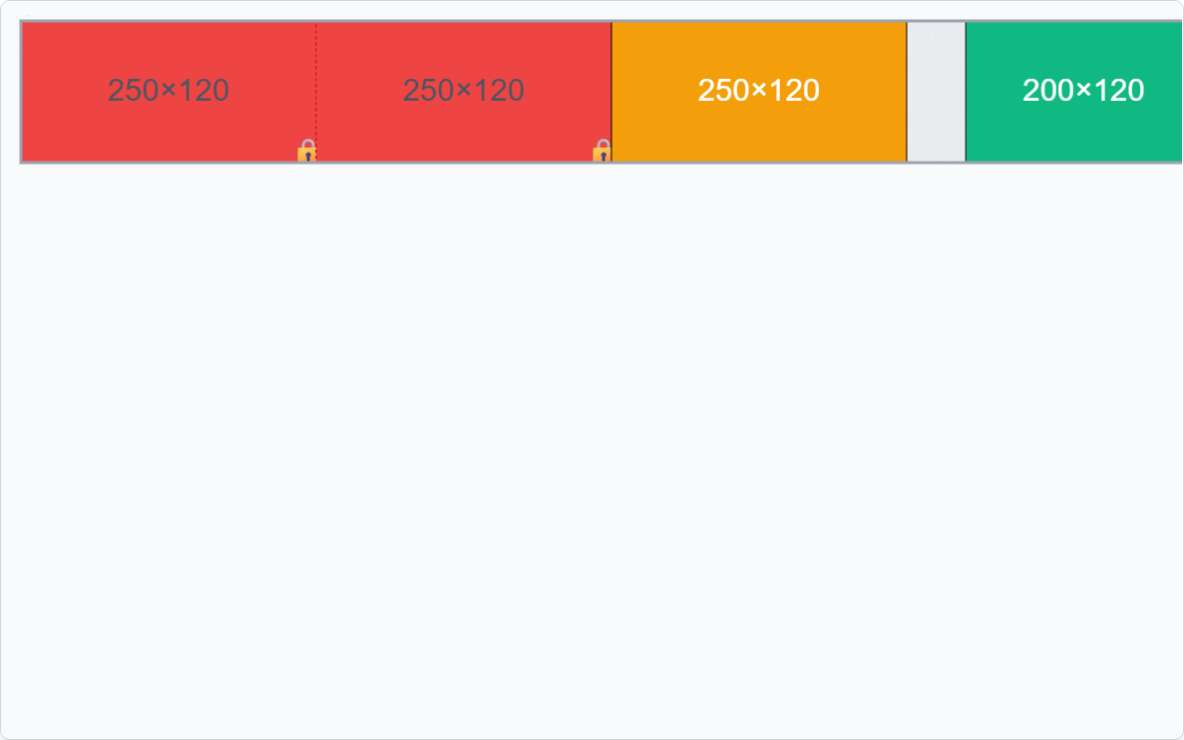
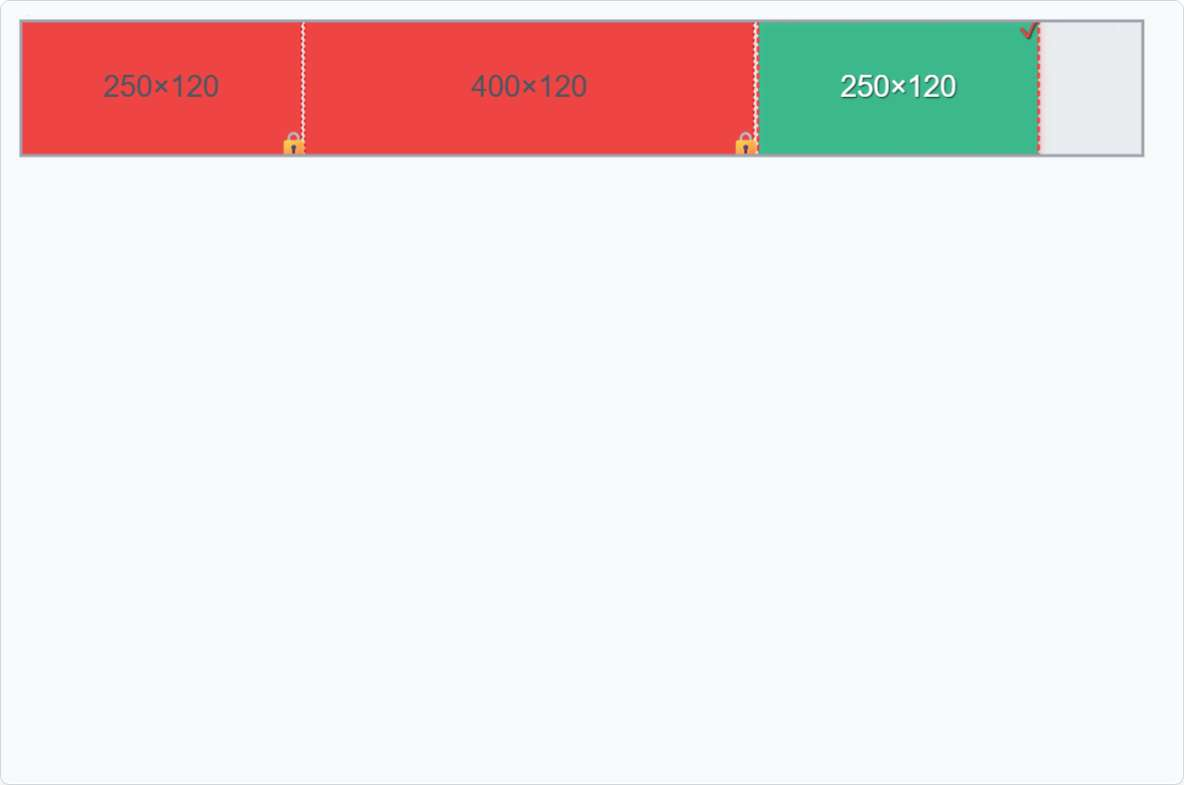
Commit Sisa

Changed region(s): [[0.0, 0.0, 1.0, 0.2486], [0.0625, 0.0932, 0.1875, 0.1554]]

diff --git a/src/pages/work-order/add.jsx b/src/pages/work-order/add.jsx
@@ -609,8 +609,8 @@ export default function AddWorkOrderPage() {
           bentuk_barang_id: item.bentuk_barang_id,
           grade_barang_id: item.grade_barang_id,
           tebal: parseFloat(item.tebal) || 0,
-          sisa_panjang: parseFloat(item.panjang) || 0,
-          sisa_lebar: parseFloat(item.lebar) || 0
+          panjang: parseFloat(item.panjang) || 0,
+          lebar: parseFloat(item.lebar) || 0
         })
       });
       

diff --git a/src/pages/work-order/select-platshaftdasar.jsx b/src/pages/work-order/select-platshaftdasar.jsx
@@ -249,8 +249,8 @@ export default function SelectPlatShaftDasar({
           bentuk_barang_id: bentukBarangId,
           grade_barang_id: gradeBarangId,
           tebal: tebal,
-          sisa_panjang: parseFloat(workOrderItem?.panjang || 0),
-          sisa_lebar: parseFloat(workOrderItem?.lebar || 0)
+          panjang: parseFloat(workOrderItem?.panjang || 0),
+          lebar: parseFloat(workOrderItem?.lebar || 0)
         })
       });
 

diff --git a/API_ENDPOINTS.md b/API_ENDPOINTS.md
@@ -950,38 +950,42 @@
 
   ### Utility Endpoints
 
-  #### 13. Get Saran Plat Dasar
-  - **POST** `/api/work-order-planning/get-saran-plat-dasar`
-  - **Description**: Mendapatkan saran plat dasar berdasarkan kriteria (jenis, bentuk, grade barang, tebal, dan sisa_luas). Hanya menampilkan item yang jenis_potongan = 'potongan' dan tidak sedang diedit (is_edit = false atau null)
-  - **Request Body**:
-  ```json
-  {
-    "jenis_barang_id": 1,
-    "bentuk_barang_id": 1,
-    "grade_barang_id": 1,
-    "tebal": 10,
-    "sisa_luas": 100
-  }
-  ```
-  - **Response**: List item barang yang memenuhi kriteria, dengan jenis, bentuk, grade barang yang sama, tebal yang sama, sisa_luas lebih besar dari parameter, jenis_potongan = 'potongan', dan tidak sedang diedit (is_edit = false atau null), diurutkan berdasarkan sisa_luas (ascending).
-  - **Response Format**:
-  ```json
-  {
-    "success": true,
-    "data": [
-      {
-        "id": 1,
-        "nama": "Aluminium Shaft Grade A",
-        "ukuran": "80.5 x 45.2 x 5.0",
-        "sisa_luas": 3640.60
-      }
-    ]
-  }
-  ```
+#### 13. Get Saran Plat Dasar
+ - **POST** `/api/work-order-planning/get-saran-plat-dasar`
+ - **Description**: Mendapatkan saran plat dasar berdasarkan kriteria (jenis, bentuk, grade barang, tebal, panjang, dan lebar). Hanya menampilkan item yang `jenis_potongan = 'potongan'` dan tidak sedang diedit (`is_edit = false` atau `null`).
+ - **Request Body**:
+ ```json
+ {
+   "jenis_barang_id": 1,
+   "bentuk_barang_id": 1,
+   "grade_barang_id": 1,
+   "tebal": 10,
+   "panjang": 100,
+   "lebar": 50
+ }
+ ```
+ - **Behavior**:
+   - Tahap 1 (DB): Sistem menghitung `areaNeeded = panjang × lebar` lalu memfilter kandidat dengan `sisa_luas >= areaNeeded`.
+   - Tahap 2 (Canvas): Untuk setiap kandidat, sistem membaca `canvas_file` JSON dan mensimulasikan ketersediaan ruang kontigu untuk `panjang × lebar` (menggunakan irisan strip vertikal dan overlap interval kosong). Hanya item yang benar-benar bisa memuat ukuran tersebut yang dikembalikan.
+ - **Response**: List item barang yang memenuhi kriteria, diurutkan berdasarkan `sisa_luas` (ascending).
+ - **Response Format**:
+```json
+{
+  "success": true,
+  "data": [
+    {
+      "id": 1,
+      "nama": "Aluminium Shaft Grade A",
+      "ukuran": "100 x 50 x 10",
+      "sisa_luas": 3640.60
+    }
+  ]
+}
+```
 
-  #### 13.1. Get Saran Plat Utuh
-  - **POST** `/api/work-order-planning/get-saran-plat-utuh`
-  - **Description**: Mendapatkan saran plat dasar untuk jenis potongan 'utuh' berdasarkan kriteria (jenis, bentuk, grade barang, tebal, panjang, dan lebar). Hanya menampilkan item yang jenis_potongan = 'utuh' dan tidak sedang diedit (is_edit = false atau null)
+#### 13.1. Get Saran Plat Utuh
+ - **POST** `/api/work-order-planning/get-saran-plat-utuh`
+ - **Description**: Mendapatkan saran plat dasar untuk jenis potongan 'utuh' berdasarkan kriteria (jenis, bentuk, grade barang, tebal, panjang, dan lebar). Hanya menampilkan item yang jenis_potongan = 'utuh' dan tidak sedang diedit (is_edit = false atau null)
   - **Request Body**:
   ```json
   {
